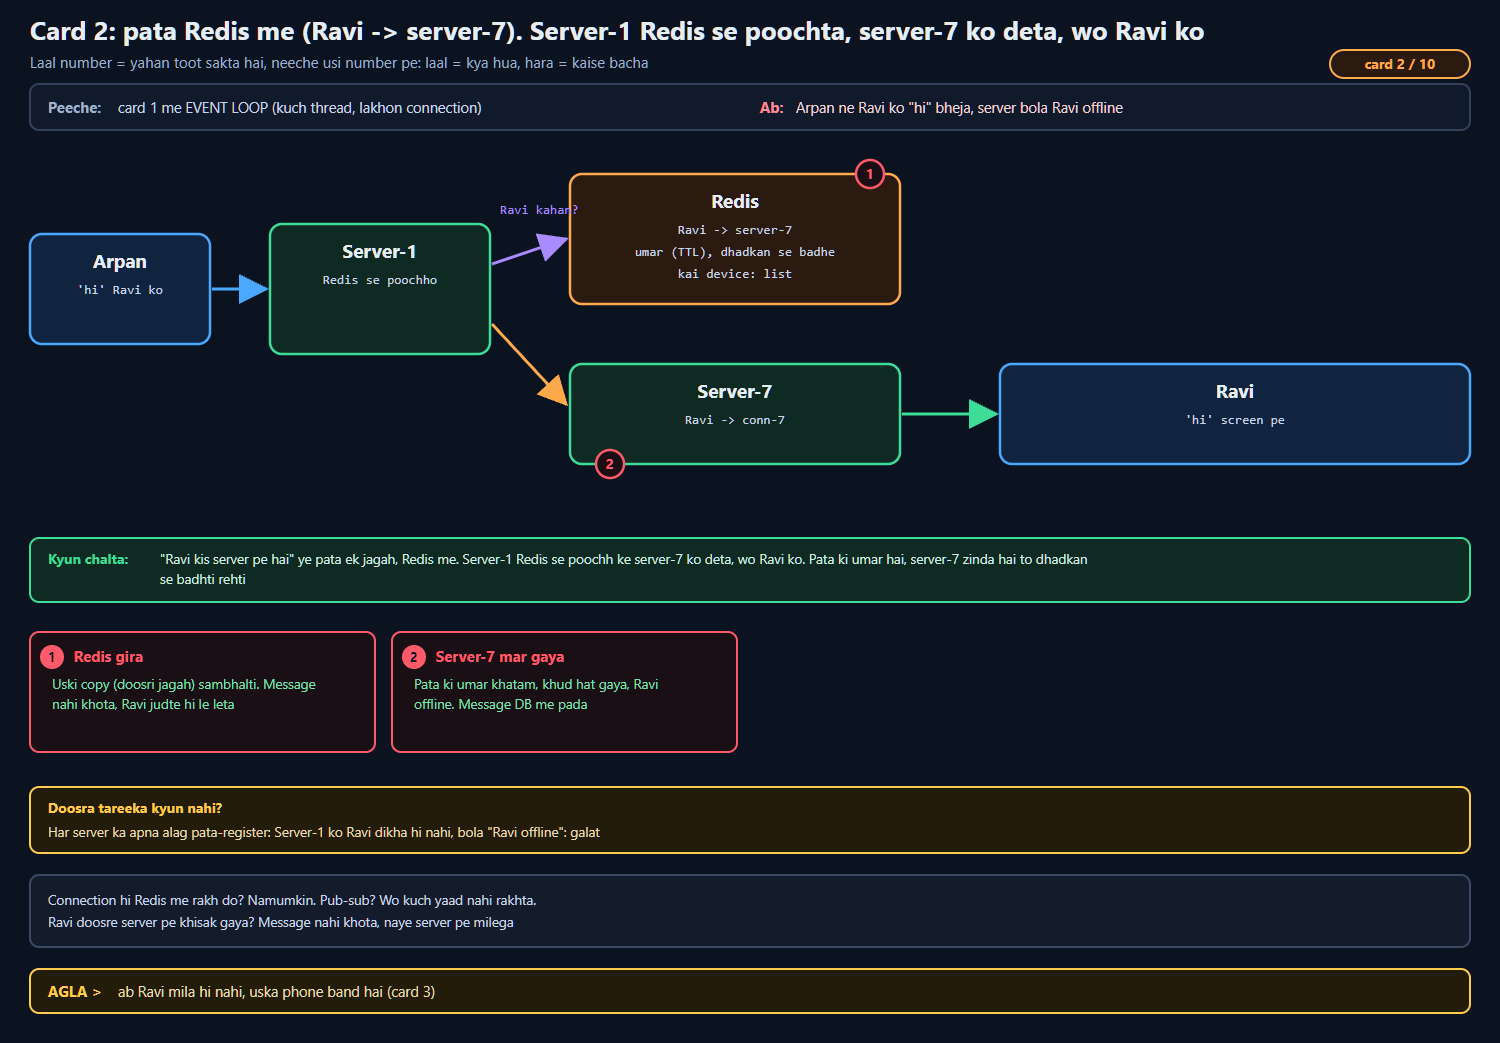
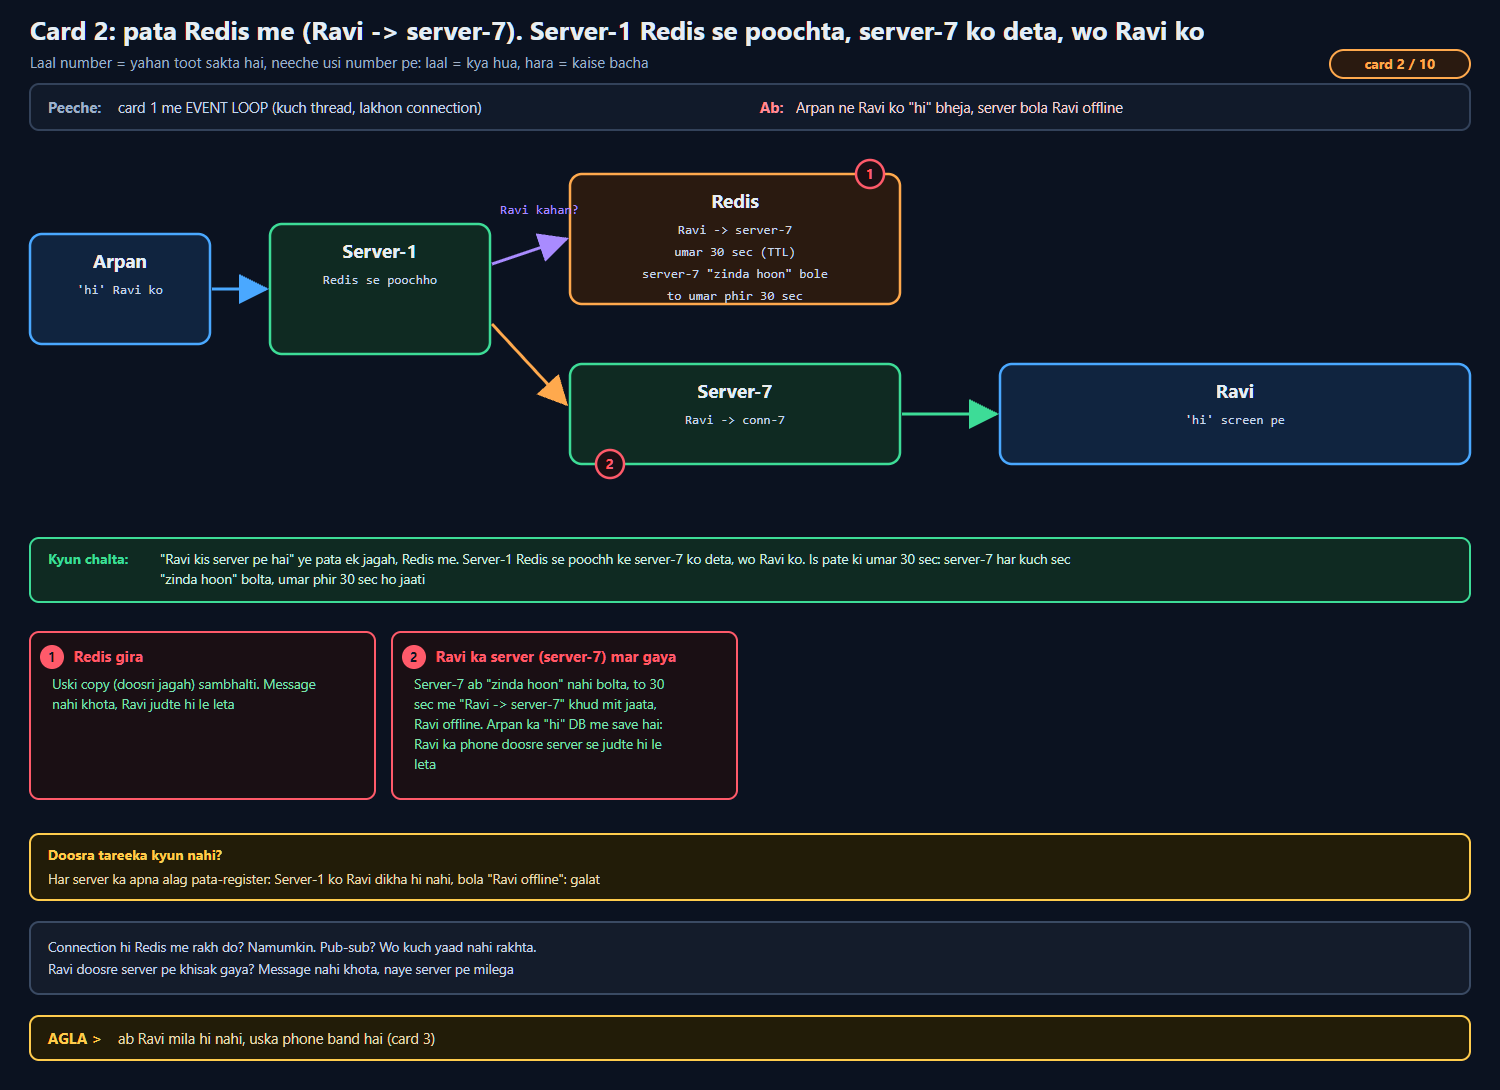
chat c2: server-7 mara wala dabba seedhe vakya me

diff --git a/04_HLD/SYSTEM_DESIGNS/14_chat_messaging/img/c2_poster.html b/04_HLD/SYSTEM_DESIGNS/14_chat_messaging/img/c2_poster.html
@@ -2,13 +2,13 @@
 <meta charset="utf-8">
 <title>Card 2: pata Redis me (Ravi -&gt; server-7)</title>
 <style>body{margin:0;background:#0b1220} svg text{font-family:"Segoe UI",Arial,sans-serif} .m{font-family:Consolas,monospace}</style>
-<svg width="1500" height="1043" viewBox="0 0 1500 1043" xmlns="http://www.w3.org/2000/svg"><defs>
+<svg width="1500" height="1090" viewBox="0 0 1500 1090" xmlns="http://www.w3.org/2000/svg"><defs>
 <marker id="ablue" markerWidth="10" markerHeight="10" refX="9" refY="5" orient="auto"><path d="M0,0 L10,5 L0,10 Z" fill="#4aa8ff"/></marker>
 <marker id="agreen" markerWidth="10" markerHeight="10" refX="9" refY="5" orient="auto"><path d="M0,0 L10,5 L0,10 Z" fill="#3ddc97"/></marker>
 <marker id="apurple" markerWidth="10" markerHeight="10" refX="9" refY="5" orient="auto"><path d="M0,0 L10,5 L0,10 Z" fill="#a98bff"/></marker>
 <marker id="agrey" markerWidth="10" markerHeight="10" refX="9" refY="5" orient="auto"><path d="M0,0 L10,5 L0,10 Z" fill="#6b7a90"/></marker>
 <marker id="aorange" markerWidth="10" markerHeight="10" refX="9" refY="5" orient="auto"><path d="M0,0 L10,5 L0,10 Z" fill="#ffa94d"/></marker>
-</defs><rect width="1500" height="1043" fill="#0b1220"/>
+</defs><rect width="1500" height="1090" fill="#0b1220"/>
 <text x="30" y="40" font-size="26" font-weight="700" fill="#e6edf3">Card 2: pata Redis me (Ravi -&gt; server-7). Server-1 Redis se poochta, server-7 ko deta, wo Ravi ko</text>
 <text x="30" y="68" font-size="15" fill="#9fb0c8">Laal number = yahan toot sakta hai, neeche usi number pe: laal = kya hua, hara = kaise bacha</text>
 <rect x="1330" y="50" width="140" height="28" rx="14" fill="#2a1a10" stroke="#ffa94d" stroke-width="2"/>
@@ -27,8 +27,9 @@
 <rect x="570" y="174" width="330" height="130" rx="12" fill="#2a1a10" stroke="#ffa94d" stroke-width="2.5"/>
 <text x="735.0" y="208" font-size="19" font-weight="700" fill="#e6edf3" text-anchor="middle">Redis</text>
 <text x="735.0" y="234" font-size="13" fill="#c9d6e8" class="m" text-anchor="middle">Ravi -&gt; server-7</text>
-<text x="735.0" y="256" font-size="13" fill="#c9d6e8" class="m" text-anchor="middle">umar (TTL), dhadkan se badhe</text>
-<text x="735.0" y="278" font-size="13" fill="#c9d6e8" class="m" text-anchor="middle">kai device: list</text>
+<text x="735.0" y="256" font-size="13" fill="#c9d6e8" class="m" text-anchor="middle">umar 30 sec (TTL)</text>
+<text x="735.0" y="278" font-size="13" fill="#c9d6e8" class="m" text-anchor="middle">server-7 &quot;zinda hoon&quot; bole</text>
+<text x="735.0" y="300" font-size="13" fill="#c9d6e8" class="m" text-anchor="middle">to umar phir 30 sec</text>
 <rect x="570" y="364" width="330" height="100" rx="12" fill="#0f2a22" stroke="#3ddc97" stroke-width="2.5"/>
 <text x="735.0" y="398" font-size="19" font-weight="700" fill="#e6edf3" text-anchor="middle">Server-7</text>
 <text x="735.0" y="424" font-size="13" fill="#c9d6e8" class="m" text-anchor="middle">Ravi -&gt; conn-7</text>
@@ -46,27 +47,30 @@
 <text x="610" y="469" font-size="14" font-weight="700" fill="#ff5a6a" text-anchor="middle">2</text>
 <rect x="30" y="538" width="1440" height="64" rx="9" fill="#0f2a22" stroke="#3ddc97" stroke-width="2"/>
 <text x="48" y="564" font-size="14" font-weight="700" fill="#3ddc97">Kyun chalta:</text>
-<text x="160" y="564" font-size="13.5" fill="#cfeee0">&quot;Ravi kis server pe hai&quot; ye pata ek jagah, Redis me. Server-1 Redis se poochh ke server-7 ko deta, wo Ravi ko. Pata ki umar hai, server-7 zinda hai to dhadkan</text>
-<text x="160" y="584" font-size="13.5" fill="#cfeee0">se badhti rehti</text>
-<rect x="30" y="632" width="345" height="120" rx="9" fill="#1a0f14" stroke="#ff5a6a" stroke-width="2"/>
+<text x="160" y="564" font-size="13.5" fill="#cfeee0">&quot;Ravi kis server pe hai&quot; ye pata ek jagah, Redis me. Server-1 Redis se poochh ke server-7 ko deta, wo Ravi ko. Is pate ki umar 30 sec: server-7 har kuch sec</text>
+<text x="160" y="584" font-size="13.5" fill="#cfeee0">&quot;zinda hoon&quot; bolta, umar phir 30 sec ho jaati</text>
+<rect x="30" y="632" width="345" height="167" rx="9" fill="#1a0f14" stroke="#ff5a6a" stroke-width="2"/>
 <circle cx="52" cy="657" r="12" fill="#ff5a6a"/>
 <text x="52" y="662" font-size="13" font-weight="700" fill="#0b1220" text-anchor="middle">1</text>
 <text x="74" y="662" font-size="15" font-weight="700" fill="#ff5a6a">Redis gira</text>
 <text x="52" y="689" font-size="13.5" fill="#7fe0b0">Uski copy (doosri jagah) sambhalti. Message</text>
 <text x="52" y="709" font-size="13.5" fill="#7fe0b0">nahi khota, Ravi judte hi le leta</text>
-<rect x="392" y="632" width="345" height="120" rx="9" fill="#1a0f14" stroke="#ff5a6a" stroke-width="2"/>
+<rect x="392" y="632" width="345" height="167" rx="9" fill="#1a0f14" stroke="#ff5a6a" stroke-width="2"/>
 <circle cx="414" cy="657" r="12" fill="#ff5a6a"/>
 <text x="414" y="662" font-size="13" font-weight="700" fill="#0b1220" text-anchor="middle">2</text>
-<text x="436" y="662" font-size="15" font-weight="700" fill="#ff5a6a">Server-7 mar gaya</text>
-<text x="414" y="689" font-size="13.5" fill="#7fe0b0">Pata ki umar khatam, khud hat gaya, Ravi</text>
-<text x="414" y="709" font-size="13.5" fill="#7fe0b0">offline. Message DB me pada</text>
-<rect x="30" y="787" width="1440" height="66" rx="9" fill="#221c08" stroke="#ffcc4d" stroke-width="2"/>
-<text x="48" y="813" font-size="14" font-weight="700" fill="#ffcc4d">Doosra tareeka kyun nahi?</text>
-<text x="48" y="837" font-size="13.5" fill="#e6dcb8">Har server ka apna alag pata-register: Server-1 ko Ravi dikha hi nahi, bola &quot;Ravi offline&quot;: galat</text>
-<rect x="30" y="875" width="1440" height="72" rx="9" fill="#141c2b" stroke="#3a4a63" stroke-width="2"/>
-<text x="48" y="905" font-size="13.5" fill="#c9d6e8">Connection hi Redis me rakh do? Namumkin. Pub-sub? Wo kuch yaad nahi rakhta.</text>
-<text x="48" y="927" font-size="13.5" fill="#c9d6e8">Ravi doosre server pe khisak gaya? Message nahi khota, naye server pe milega</text>
-<rect x="30" y="969" width="1440" height="44" rx="9" fill="#221c08" stroke="#ffcc4d" stroke-width="2"/>
-<text x="48" y="997" font-size="15" font-weight="700" fill="#ffcc4d">AGLA &gt;</text>
-<text x="118" y="997" font-size="14.5" fill="#e6dcb8">ab Ravi mila hi nahi, uska phone band hai (card 3)</text>
+<text x="436" y="662" font-size="15" font-weight="700" fill="#ff5a6a">Ravi ka server (server-7) mar gaya</text>
+<text x="414" y="689" font-size="13.5" fill="#7fe0b0">Server-7 ab &quot;zinda hoon&quot; nahi bolta, to 30</text>
+<text x="414" y="709" font-size="13.5" fill="#7fe0b0">sec me &quot;Ravi -&gt; server-7&quot; khud mit jaata,</text>
+<text x="414" y="729" font-size="13.5" fill="#7fe0b0">Ravi offline. Arpan ka &quot;hi&quot; DB me save hai:</text>
+<text x="414" y="749" font-size="13.5" fill="#7fe0b0">Ravi ka phone doosre server se judte hi le</text>
+<text x="414" y="769" font-size="13.5" fill="#7fe0b0">leta</text>
+<rect x="30" y="834" width="1440" height="66" rx="9" fill="#221c08" stroke="#ffcc4d" stroke-width="2"/>
+<text x="48" y="860" font-size="14" font-weight="700" fill="#ffcc4d">Doosra tareeka kyun nahi?</text>
+<text x="48" y="884" font-size="13.5" fill="#e6dcb8">Har server ka apna alag pata-register: Server-1 ko Ravi dikha hi nahi, bola &quot;Ravi offline&quot;: galat</text>
+<rect x="30" y="922" width="1440" height="72" rx="9" fill="#141c2b" stroke="#3a4a63" stroke-width="2"/>
+<text x="48" y="952" font-size="13.5" fill="#c9d6e8">Connection hi Redis me rakh do? Namumkin. Pub-sub? Wo kuch yaad nahi rakhta.</text>
+<text x="48" y="974" font-size="13.5" fill="#c9d6e8">Ravi doosre server pe khisak gaya? Message nahi khota, naye server pe milega</text>
+<rect x="30" y="1016" width="1440" height="44" rx="9" fill="#221c08" stroke="#ffcc4d" stroke-width="2"/>
+<text x="48" y="1044" font-size="15" font-weight="700" fill="#ffcc4d">AGLA &gt;</text>
+<text x="118" y="1044" font-size="14.5" fill="#e6dcb8">ab Ravi mila hi nahi, uska phone band hai (card 3)</text>
 </svg>

diff --git a/04_HLD/SYSTEM_DESIGNS/14_chat_messaging/14_chat_messaging.md b/04_HLD/SYSTEM_DESIGNS/14_chat_messaging/14_chat_messaging.md
@@ -69,7 +69,7 @@ FAISLA  connection ki apni line: 2 crore / ~1 lakh har machine = ~200 chat serve
 
 **Rail 2 BHEED AAYI (connection)** · Cue: EVENT LOOP, kuch thread, lakhon conn
 
-<img src="img/c1_poster.png?v=3" width="1000" alt="card 1: kya toota, kaise bacha">
+<img src="img/c1_poster.png?v=4" width="1000" alt="card 1: kya toota, kaise bacha">
 
 
 ---
@@ -80,7 +80,7 @@ FAISLA  connection ki apni line: 2 crore / ~1 lakh har machine = ~200 chat serve
 
 **Rail 1 KAAM CHALA (kaun kahan)** · Cue: MAP Redis me (kaun kahan)
 
-<img src="img/c2_poster.png?v=3" width="1000" alt="card 2: kya toota, kaise bacha">
+<img src="img/c2_poster.png?v=4" width="1000" alt="card 2: kya toota, kaise bacha">
 
 
 ---
@@ -91,7 +91,7 @@ FAISLA  connection ki apni line: 2 crore / ~1 lakh har machine = ~200 chat serve
 
 **Rail 3 MACHINE GIRI (phone band)** · Cue: pehle DB, phir bhejo; PUSH
 
-<img src="img/c3_poster.png?v=3" width="1000" alt="card 3: kya toota, kaise bacha">
+<img src="img/c3_poster.png?v=4" width="1000" alt="card 3: kya toota, kaise bacha">
 
 
 ---
@@ -102,7 +102,7 @@ FAISLA  connection ki apni line: 2 crore / ~1 lakh har machine = ~200 chat serve
 
 **Rail 6 DATA BADA** · Cue: chat_id se baanto
 
-<img src="img/c4_poster.png?v=3" width="1000" alt="card 4: kya toota, kaise bacha">
+<img src="img/c4_poster.png?v=4" width="1000" alt="card 4: kya toota, kaise bacha">
 
 
 ---
@@ -113,7 +113,7 @@ FAISLA  connection ki apni line: 2 crore / ~1 lakh har machine = ~200 chat serve
 
 **Rail 4 DO LOG EK SAATH (retry)** · Cue: IDEMPOTENCY (clientMsgId)
 
-<img src="img/c5_poster.png?v=3" width="1000" alt="card 5: kya toota, kaise bacha">
+<img src="img/c5_poster.png?v=4" width="1000" alt="card 5: kya toota, kaise bacha">
 
 
 ---
@@ -124,7 +124,7 @@ FAISLA  connection ki apni line: 2 crore / ~1 lakh har machine = ~200 chat serve
 
 **Rail 4 DO LOG EK SAATH (khaas)** · Cue: SEQ, server ka +1
 
-<img src="img/c6_poster.png?v=3" width="1000" alt="card 6: kya toota, kaise bacha">
+<img src="img/c6_poster.png?v=4" width="1000" alt="card 6: kya toota, kaise bacha">
 
 
 ---
@@ -135,7 +135,7 @@ FAISLA  connection ki apni line: 2 crore / ~1 lakh har machine = ~200 chat serve
 
 **Rail 2 BHEED AAYI (group)** · Cue: group ka EK copy
 
-<img src="img/c7_poster.png?v=3" width="1000" alt="card 7: kya toota, kaise bacha">
+<img src="img/c7_poster.png?v=4" width="1000" alt="card 7: kya toota, kaise bacha">
 
 
 ---
@@ -146,7 +146,7 @@ FAISLA  connection ki apni line: 2 crore / ~1 lakh har machine = ~200 chat serve
 
 **Rail 1 KAAM CHALA (tick)** · Cue: NISHAAN read_upto
 
-<img src="img/c8_poster.png?v=3" width="1000" alt="card 8: kya toota, kaise bacha">
+<img src="img/c8_poster.png?v=4" width="1000" alt="card 8: kya toota, kaise bacha">
 
 
 ---
@@ -157,7 +157,7 @@ FAISLA  connection ki apni line: 2 crore / ~1 lakh har machine = ~200 chat serve
 
 **Rail 5 KUCH DHEEMA (video)** · Cue: S3 PRESIGNED URL, message me pata
 
-<img src="img/c9_poster.png?v=3" width="1000" alt="card 9: kya toota, kaise bacha">
+<img src="img/c9_poster.png?v=4" width="1000" alt="card 9: kya toota, kaise bacha">
 
 
 ---
@@ -168,7 +168,7 @@ FAISLA  connection ki apni line: 2 crore / ~1 lakh har machine = ~200 chat serve
 
 **Rail 2 BHEED AAYI (online)** · Cue: UMAR 30 sec (TTL)
 
-<img src="img/c10_poster.png?v=3" width="1000" alt="card 10: kya toota, kaise bacha">
+<img src="img/c10_poster.png?v=4" width="1000" alt="card 10: kya toota, kaise bacha">
 
 
 ---
